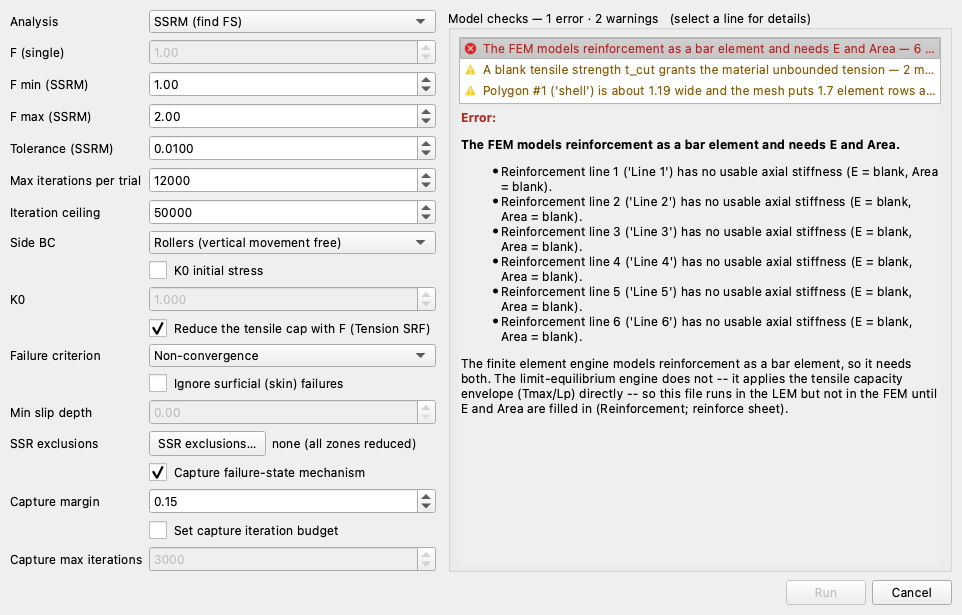
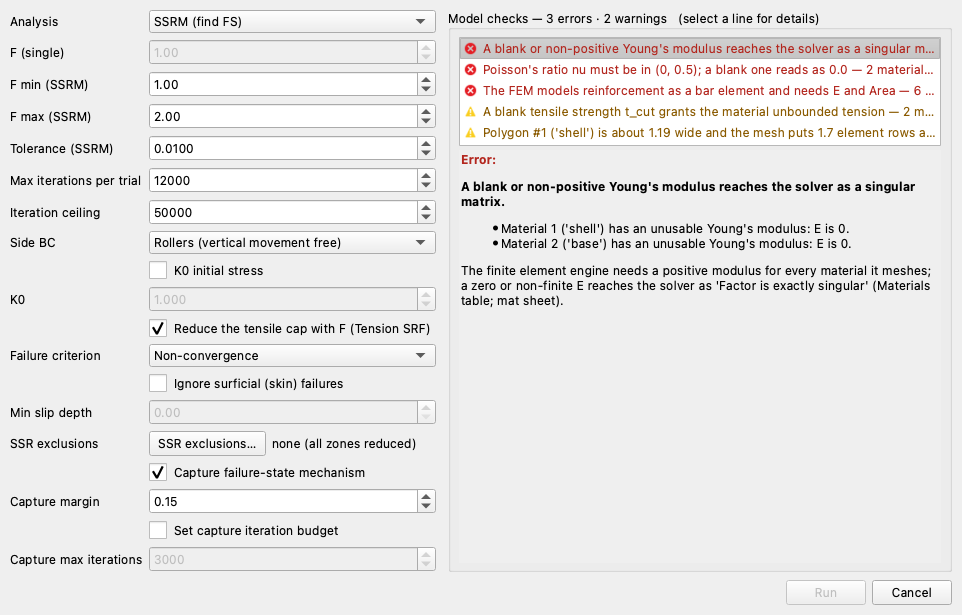
docs(tutorials): FEM-2 starter carries the LEM model only — every FEM input is entered on the page
Claude-Session: https://claude.ai/code/session_01XjjT2aBxw8gY7EFdpoUcpj

Changed region(s): [[0.4678, 0.0, 0.9667, 0.5561], [0.4678, 0.587, 0.9667, 0.6797]]

diff --git a/tools/build_reinforced_slope_tutorial.py b/tools/build_reinforced_slope_tutorial.py
@@ -20,14 +20,17 @@ so the model a reader opens can never drift from the one the two sample pages
 measure.  Nothing here hand-edits an xlsx, and no input is the tutorial's own:
 every value comes from one of the two base models.
 
-The starter is the LEM-8 model plus the elastic constants
---------------------------------------------------------
+The starter is the LEM-8 model, and nothing the finite element engine needs
+-------------------------------------------------------------------------
 The page's arc is: recall the limit-equilibrium answer, then give the same
 section to the finite element engine and watch what the reinforcement does that
 the slices could not express.  So the starter carries **everything limit
-equilibrium needs and everything the continuum needs**, and is missing exactly
-the two things the page teaches a reader to supply:
+equilibrium needs and nothing the continuum needs**, and every finite-element
+input is one the page teaches a reader to supply:
 
+* **no elastic constants** — E and nu are cleared to blank cells on both
+  materials, the way ``tools/build_ssrm_embankment.py`` clears them for FEM-1.
+  Blank, not zero: a zero is a stiffness of zero rather than an unfilled one.
 * **no mesh** — neither file has a mesh sidecar, and the starter declares no
   element type or target size, so the reader builds the mesh from the Build Mesh
   dialog.  (The completed file declares tri6 at the tutorial's target size, which
@@ -40,8 +43,8 @@ the two things the page teaches a reader to supply:
   elastic-perfectly-plastic model, which is the page's first run; the reader
   types the residual capacity in afterwards for the second.
 
-Everything else on the starter is the completed file's, so the only inputs the
-reader adds are the mesh and the three reinforcement columns.
+Everything else on the starter is the completed file's, so the inputs the reader
+adds are the elastic pair, the mesh and the three reinforcement columns.
 
 Run:  PYTHONPATH=. python3 tools/build_reinforced_slope_tutorial.py         # both
       PYTHONPATH=. python3 tools/build_reinforced_slope_tutorial.py start   # one
@@ -144,16 +147,26 @@ def _write(sd, filename):
 
 
 def build_start():
-    """The starter: the reinforced slope with elastic constants and no mesh, and
-    with Tres / E / Area left blank on every reinforcement row.
+    """The starter: the reinforced slope carrying the limit-equilibrium model
+    only — no elastic constants, no mesh, and Tres / E / Area blank on every
+    reinforcement row.
 
-    Blank rather than zero on all three.  ``save_slope_data_to_xlsx`` writes an
-    unset Tres as an empty cell, and E and Area go out as the NaN they came in
-    as, which the writer's number formatter also puts out empty — so the reader
-    opens three genuinely empty columns and the loader reads them back as "not
-    given" rather than as "zero", which for Tres would mean brittle rupture.
+    The materials' ``E`` and ``nu`` are set to ``None`` rather than to a number,
+    which the material writer puts out as an empty cell; that is how
+    ``tools/build_ssrm_embankment.py`` clears the same pair for FEM-1, and it
+    loads back as an unfilled property rather than a zero one.
+
+    Blank rather than zero on the three reinforcement columns too.
+    ``save_slope_data_to_xlsx`` writes an unset Tres as an empty cell, and E and
+    Area go out as the NaN they came in as, which the writer's number formatter
+    also puts out empty — so the reader opens three genuinely empty columns and
+    the loader reads them back as "not given" rather than as "zero", which for
+    Tres would mean brittle rupture.
     """
     sd, _fem = _model()
+    for m in sd["materials"]:
+        m["E"] = None
+        m["nu"] = None
     return _write(sd, START_OUT)
 
 

diff --git a/tools/capture_tutorial_screenshots.py b/tools/capture_tutorial_screenshots.py
@@ -2219,13 +2219,13 @@ def _fem02_meshed(path=FEM02_DONE):
 
 
 def fem02_materials():
-    """The materials editor, table view, FEM columns: both soils already carry the
-    elastic pair this tutorial's starter is delivered with.
+    """The materials editor, table view, FEM columns, AFTER the elastic pair is
+    entered — the state the page's Materials step leaves behind.
 
-    The page's featured input is the reinforcement table, not this one — the
-    elastic constants arrive filled — so this shot exists to show the reader what
-    a complete FEM material row looks like before the run refuses on something
-    else.
+    The starter delivers both soils with E and nu blank, so this is the filled
+    state the reader is working toward, photographed on the COMPLETED file the
+    way FEM-1's ``fem01_studio_materials`` is. The blank state is not shot: the
+    Run FEM refusal above it is what shows the reader the cells are empty.
     """
     from studio.editors import MaterialsEditor
 
@@ -2301,13 +2301,16 @@ def fem02_run_fem():
 
 
 def fem02_run_fem_no_reinf():
-    """The same dialog on the STARTER, meshed but with the reinforcement's E and
-    Area still blank.
+    """The same dialog on the STARTER, meshed but carrying no finite element
+    input at all: the soils' E and nu blank, and the reinforcement's E and Area
+    blank with them.
 
-    **Run** is disabled and the checks column names all six lines. This is the
-    page's transition figure: the limit-equilibrium search ran on this file
-    unchanged, and the finite element engine refuses it until the bars have a
-    stiffness — the capacity envelope alone is not a bar.
+    **Run** is disabled and the checks column carries three errors — a modulus
+    check and a Poisson's-ratio check over both materials, and the axial
+    stiffness check over all six lines. This is the page's transition figure: the
+    limit-equilibrium search ran on this file unchanged, and the finite element
+    engine refuses it until the soils and the bars both have a stiffness — the
+    capacity envelope alone is not a bar.
     """
     from studio.dialogs import RunFemDialog
 

diff --git a/tools/make_tutorial_figures.py b/tools/make_tutorial_figures.py
@@ -4134,9 +4134,11 @@ def fem01_plots():
 #: FEM-2's file pair, written by ``tools/build_reinforced_slope_tutorial.py`` from
 #: the LEM reinforced-slope model (docs/lem/samples.md problem 9, the model
 #: Tutorial LEM-8 builds) and its finite element counterpart
-#: (docs/fem/samples.md problem 1).  The starter carries the elastic constants and
-#: the six geogrid lines but no mesh and no FEM reinforcement data; the completed
-#: file adds Tres, the bar modulus and the bar area, and declares the mesh.
+#: (docs/fem/samples.md problem 1).  The starter carries the limit-equilibrium
+#: model only — the six geogrid lines, but no elastic constants, no mesh and no
+#: FEM reinforcement data; the completed file adds the soils' E and nu, Tres, the
+#: bar modulus and the bar area, and declares the mesh.  Nothing here runs the FEM
+#: on the starter: its three uses below are the inputs plot and the Spencer search.
 FEM02_START = os.path.join(REPO_ROOT,
                            "docs/tutorials/files/xslope_reinforced_slope_start.xlsx")
 FEM02_DONE = os.path.join(REPO_ROOT,

diff --git a/docs/tutorials/fem02_reinforcement.md b/docs/tutorials/fem02_reinforcement.md
@@ -29,9 +29,9 @@ lines, the capacity envelope and pullout lengths, and
 [FEM-1](fem01_strength_reduction.md) covers strength reduction, meshing for a
 stability run and the controls that decide whether a trial is allowed to finish.
 This page does not repeat either. It starts from a **starter file** that carries
-the whole LEM-8 model plus the soils' elastic properties, so the only inputs
-added here are the three columns the finite element engine needs on a
-reinforcement line.
+the whole LEM-8 model and nothing else, so the inputs added here are the ones the
+finite element engine needs and the limit equilibrium engine does not: the soils'
+two elastic properties, and three columns on every reinforcement line.
 
 <div class="tut-glance" markdown>
 <div class="tgt-row">
@@ -47,13 +47,13 @@ much the post-peak assumption is worth.
 <p><span class="tg-pill">two materials</span><span class="tg-pill">reinforcement lines</span><span class="tg-pill">capacity envelope</span><span class="tg-pill">pullout length</span><span class="tg-pill">bar elements</span><span class="tg-pill">axial stiffness</span><span class="tg-pill">elastic-perfectly-plastic</span><span class="tg-pill">residual capacity</span><span class="tg-pill">strength reduction</span><span class="tg-pill">quadratic triangles</span><span class="tg-pill">thin zones</span><span class="tg-pill">iteration budget</span><span class="tg-pill">overburden pullout</span><span class="tg-pill">1D details</span><span class="tg-pill">shear strain</span></p>
 <div class="tgm-model" markdown>
 **Starter file** — [xslope_reinforced_slope_start.xlsx](files/xslope_reinforced_slope_start.xlsx),
-the LEM-8 model with Young's modulus and Poisson's ratio already on both soils,
-and with `Tres`, `E (psf)` and `Area` blank on all six reinforcement lines; this
-is the file the page starts from
+the LEM-8 model with every finite element input blank: Young's modulus and
+Poisson's ratio on both soils, and `Tres`, `E (psf)` and `Area` on all six
+reinforcement lines; this is the file the page starts from
 
 **Completed model** — [xslope_reinforced_slope.xlsx](files/xslope_reinforced_slope.xlsx),
-the same model with the three reinforcement columns filled in and the element
-type and target size declared; open it to skip to
+the same model with the soils' elastic pair and the three reinforcement columns
+filled in and the element type and target size declared; open it to skip to
 [the runs](#the-iteration-budget). Neither file carries a mesh, so the meshing
 step below is done on either one
 </div>
@@ -78,10 +78,10 @@ and the face end almost none — so
 [pullout from the overburden](#pullout-from-the-overburden) below runs the same
 model with the bond read from the depth of burial instead.
 
-The soils' elastic properties, E = 1.0 × 10<sup>6</sup> psf and ν = 0.3, are
-already in the starter file. The sketch also shows the geogrid's axial
-stiffness, *EA* = 80,000 lb/ft, and its residual capacity, 600 lb/ft. Neither is
-in the starter file; both are entered on this page when the finite element run
+The sketch shows the soils' elastic properties, E = 1.0 × 10<sup>6</sup> psf and
+ν = 0.3, the geogrid's axial stiffness, *EA* = 80,000 lb/ft, and its residual
+capacity, 600 lb/ft, because the finished model carries them; none of the four is
+in the starter file, and all are entered on this page when the finite element run
 calls for them. The geometry, the soils and the reinforcement are Example 5 from
 the UTEXASED user manual, and [LEM-8](lem08_reinforced_slope.md) builds all of
 it from nothing.
@@ -231,7 +231,7 @@ Set **Element type** to **Quadratic triangles (tri6)**. A finite element slope
 stability analysis needs quadratic elements — linear ones lock and report a
 factor of safety that is too high; the
 [element type table](../fem/overview.md#element-type-selection-and-volumetric-locking)
-in the FEM overview puts the error at 21% for tri3 and 11% for quad4.
+in the FEM overview shows how much.
 
 Untick **Auto-size from geometry** and set **Target element size** to `2`. That
 is the size the [FEM sample problem](../fem/samples.md) for this model uses, and
@@ -292,41 +292,71 @@ are the 240 psf surcharge.
 
 ---
 
-## The stiffness the bars need
+## The stiffnesses the run needs
 
-The mesh exists, but the run will not start on it yet. Two of the three finite
-element reinforcement columns are still blank, and this section fills them in.
-It starts from the soils' elastic properties, because what a bar's stiffness
-does depends on the stiffness of the soil it is buried in.
-
-![The materials table on the FEM toggle: both soils already carry E and n](images/fem02_studio_materials.png)
-
-Both soils already carry an elastic modulus of 1,000,000 psf and a Poisson's
-ratio of 0.3, entered as `E (psf)` and `n` on the materials table with the
-**Show parameters for:** toggles set to **FEM**. A single round modulus was used
-for both layers rather than values from a soil-type table, and
-[what a stiffness does and does not change](#what-the-two-stiffnesses-change)
-is measured further down, because on a reinforced model the answer is different
-from the one FEM-1 reports.
+The mesh exists, but the run will not start on it yet. The starter carries the
+limit equilibrium model and nothing beyond it, so every input the continuum
+needs is still blank: the two elastic properties on each soil, and two of the
+three finite element columns on each reinforcement line. This section fills
+them in, soils first, because what a bar's stiffness does depends on the
+stiffness of the soil it is buried in.
 
 With a mesh in place, **Run → Run FEM…** is available. Click it.
 
-![The run refused: the six lines have no axial stiffness, and Run is disabled](images/fem02_studio_run_fem_no_reinf.png)
+![The run refused: neither soil has a stiffness, the six lines have no axial stiffness, and Run is disabled](images/fem02_studio_run_fem_no_reinf.png)
 
-**Model checks — 1 error · 2 warnings**, and the **Run** button is disabled. The
-error names all six lines and then explains itself:
+**Model checks — 3 errors · 2 warnings**, and the **Run** button is disabled.
+The same file ran in the limit equilibrium engine with nothing to report. Three
+checks failed, one line each, and each line ends with the rows its own check
+fired on — trimmed to the width the list has, and given in full in the detail
+underneath it:
+
+> A blank or non-positive Young's modulus reaches the solver as a singular
+> matrix — 2 materials: 1 ('shell'), 2 ('base')
+>
+> Poisson's ratio nu must be in (0, 0.5); a blank one reads as 0.0 — 2
+> materials: 1 ('shell'), 2 ('base')
+>
+> The FEM models reinforcement as a bar element and needs E and Area — 6 lines:
+> 1 ('Line 1'), 2 ('Line 2'), 3 ('Line 3'), 4 ('Line 4'), 5 ('Line 5'), and 1
+> more
+
+The panel opens on the first of the three, and the detail beneath the list
+carries the rest of that message: the finite element engine needs a positive
+modulus for every material it meshes, and a zero one reaches the solver as
+*Factor is exactly singular*. Select the third line and it explains itself the
+same way:
 
 > The finite element engine models reinforcement as a bar element, so it needs
 > both. The limit-equilibrium engine does not -- it applies the tensile capacity
 > envelope (Tmax/Lp) directly -- so this file runs in the LEM but not in the FEM
 > until E and Area are filled in.
 
-The same file ran in the limit equilibrium engine with nothing to report. The
-three columns at the end of the reinforcement table are what the finite element
-engine needs and the limit equilibrium engine does not. Click **Cancel**, then
-**Reinforcement** in the Inputs dock, and set the **Show parameters for:**
-toggles so both **LEM** and **FEM** are ticked — the three columns at the right
-end, in blue, are the ones only the finite element engine reads.
+Click **Cancel**, then **Materials** in the Inputs dock. On **Table view**, set
+the **Show parameters for:** toggles to **FEM** alone, and give both soils an
+elastic modulus of 1.0 × 10<sup>6</sup> psf and a Poisson's ratio of 0.3, in the
+columns headed `E (psf)` and `n` (the Poisson's ratio column is labeled with a
+plain `n`);
+[FEM-1](fem01_strength_reduction.md#where-e-comes-from-and-what-it-changes)
+covers what each of the two is and where a nominal modulus comes from when the
+problem gives you nothing better.
+
+| E (psf) | n |
+|---:|---:|
+| 1000000 | 0.3 |
+
+![The materials table with both soils' elastic properties entered](images/fem02_studio_materials.png)
+
+A single round modulus is used for both layers here rather than values from a
+soil-type table, and
+[what a stiffness does and does not change](#what-the-two-stiffnesses-change)
+is measured further down, because on a reinforced model the answer is different
+from the one FEM-1 reports. Click **OK**.
+
+The reinforcement's two columns are next. Open **Reinforcement** in the Inputs
+dock, and set the **Show parameters for:** toggles so both **LEM** and **FEM**
+are ticked — the three columns at the right end, in blue, are the ones only the
+finite element engine reads.
 
 ![The reinforcement table on the starter: Tres, E and Area empty](images/fem02_studio_reinforce_blank.png)
 
